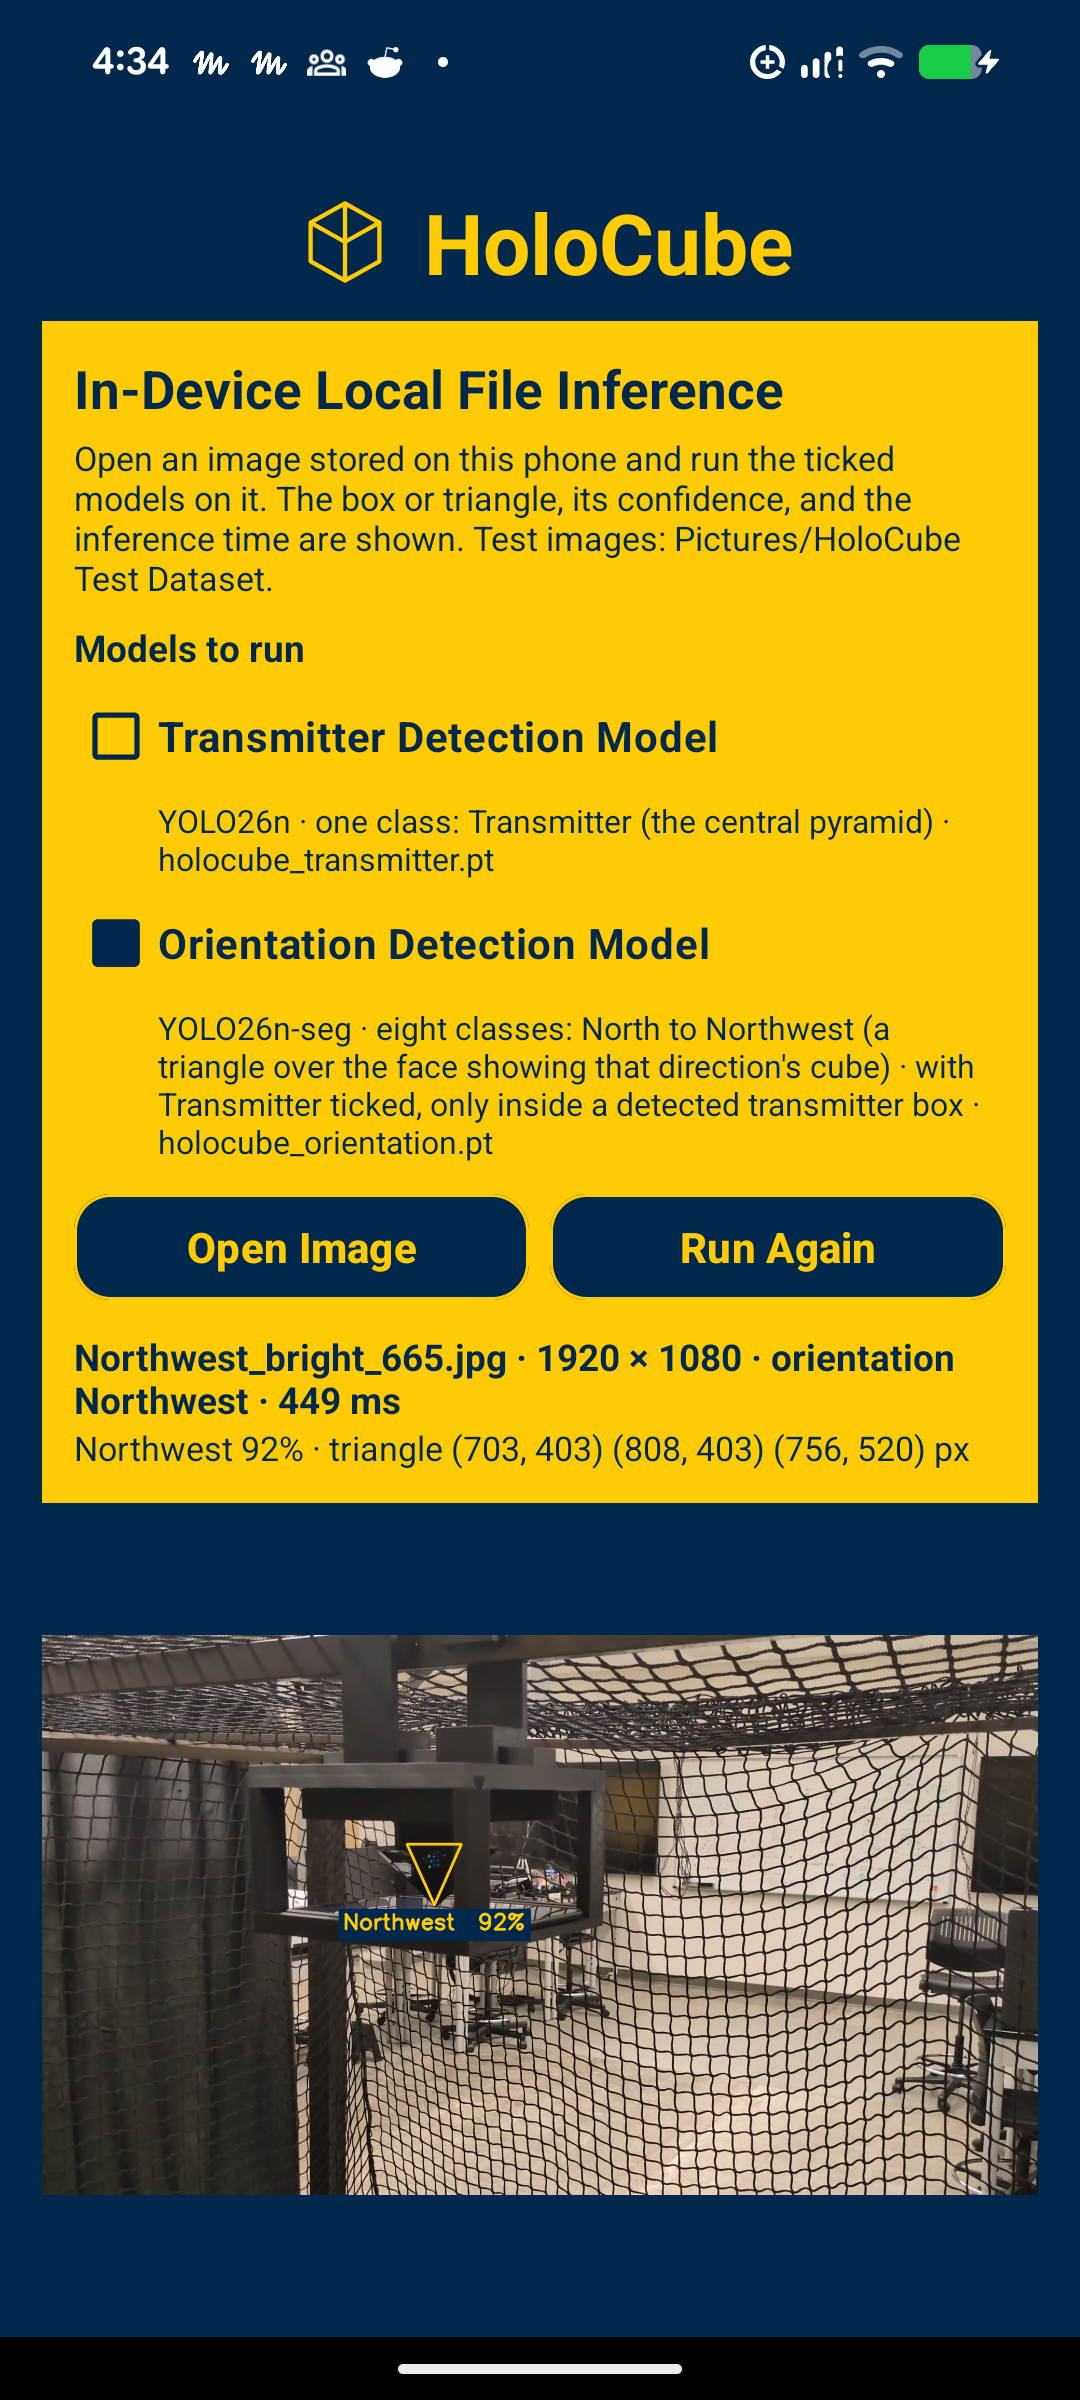
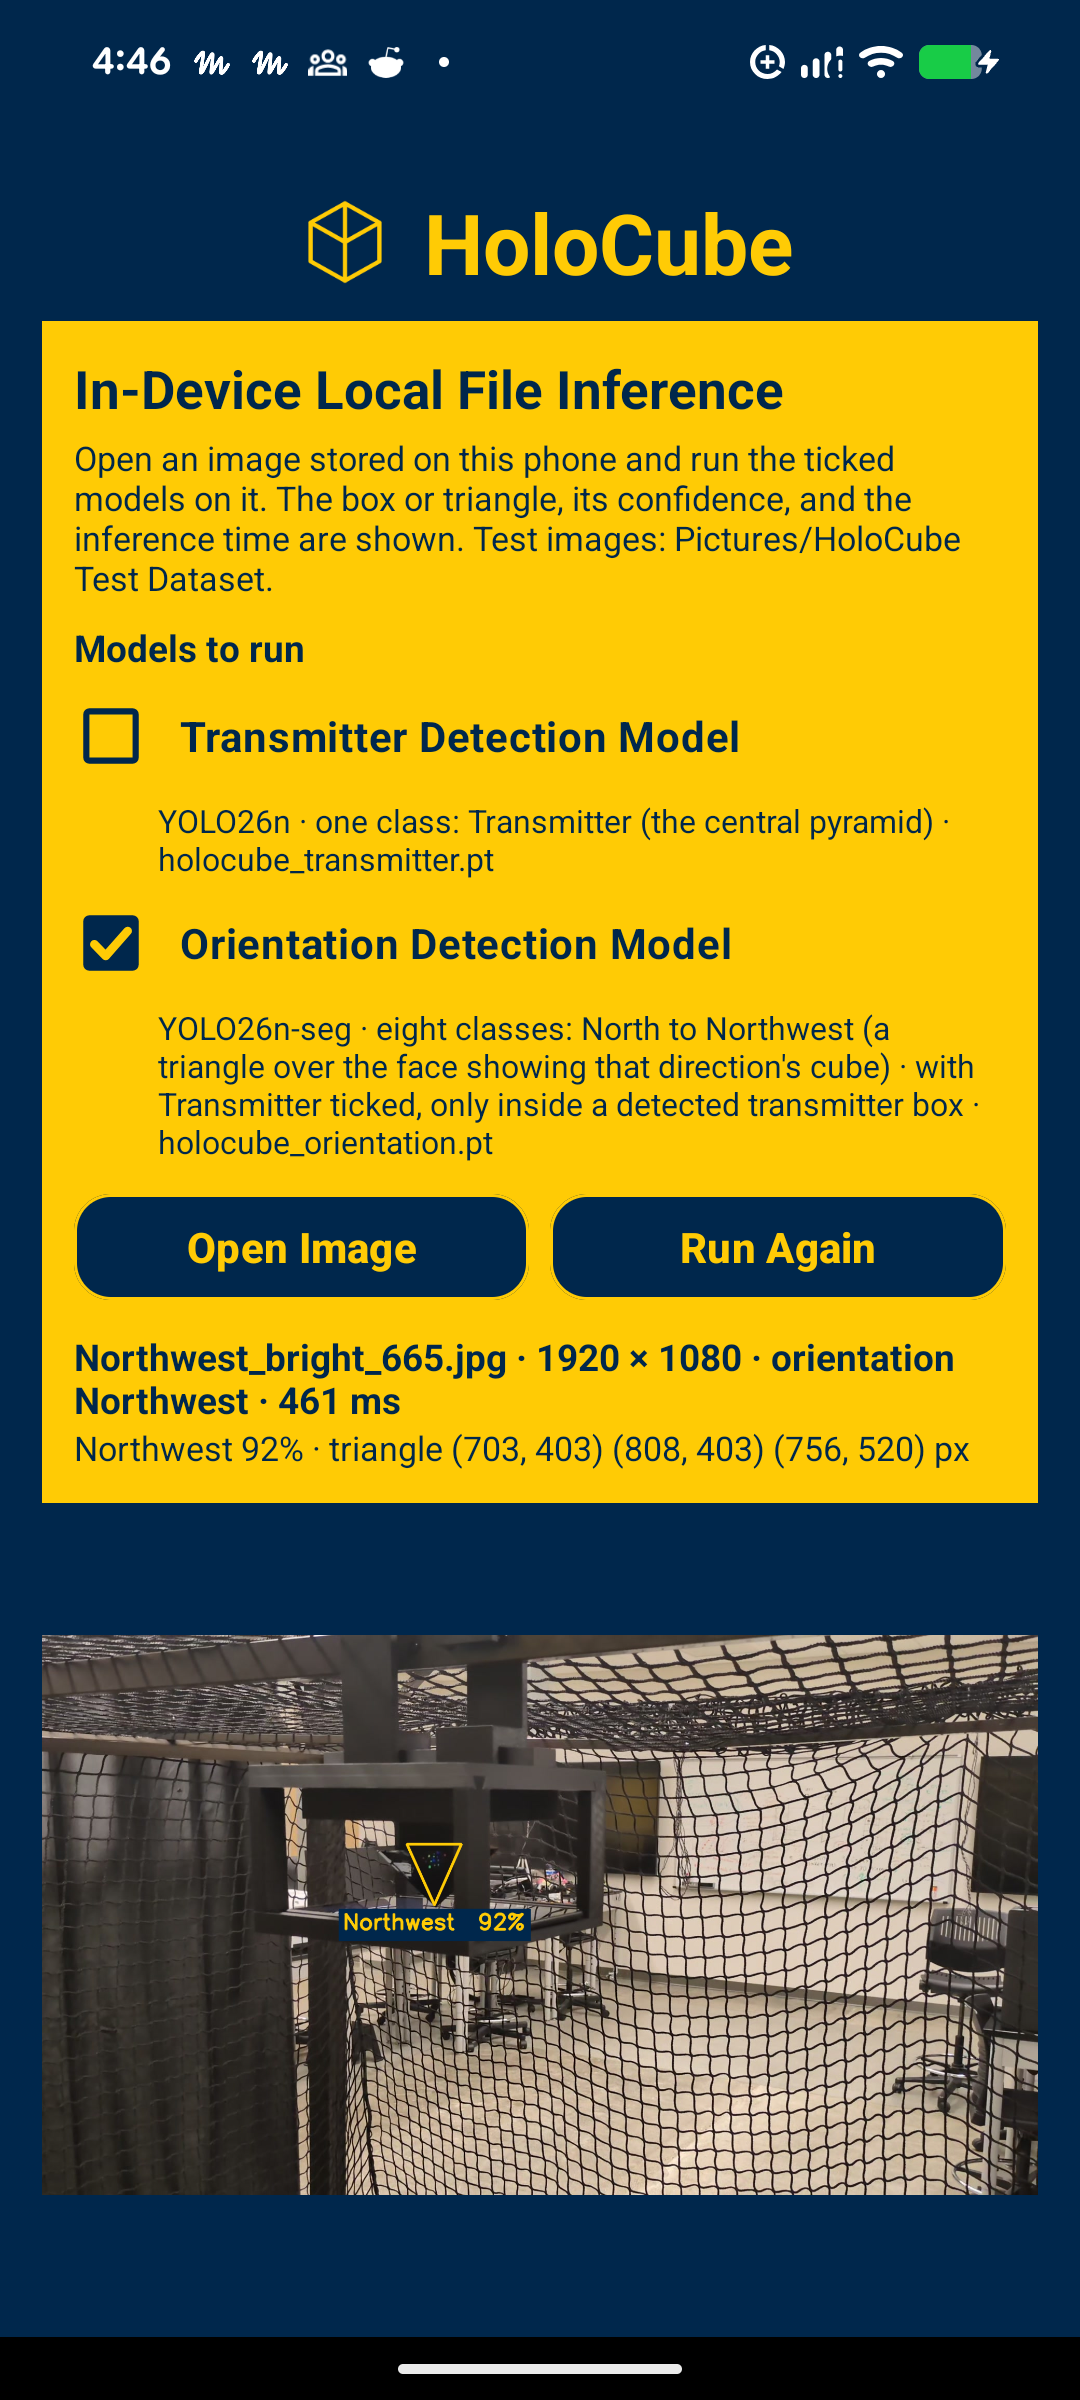
Show ticks in the model checkboxes and make the Guide OK maize (1.4.1)
The Material 3 checkbox drew its tick in the box colour, so a ticked model
looked like a solid square. Draw the checkbox in the app instead: a
Michigan Blue box with a maize tick, and an empty Michigan Blue outline
when unticked (model_checkbox*.xml), on both the Settings rows and the
Local File Inference screen. The theme's checkbox style overrides
android:button through buttonCompat and adds a tint, so the layouts set
app:buttonCompat and clear the tint.

The Guide dialog's OK is maize; Michigan Blue was nearly invisible on the
dark dialog.

26 unit tests pass and lint has 0 errors. On the Pixel 8a screenshots show
the ticks, the unticked outline and the maize OK; screenshots 6, 10, 11 and
12 are retaken.

diff --git a/app/src/main/java/com/developer27/holocube/mobile/MainActivity.kt b/app/src/main/java/com/developer27/holocube/mobile/MainActivity.kt
@@ -373,11 +373,13 @@ class MainActivity : AppCompatActivity() {
     }
 
     private fun showGuideDialog() {
-        AlertDialog.Builder(this)
+        val dialog = AlertDialog.Builder(this)
             .setTitle(R.string.guide_title)
             .setMessage(R.string.guide_text)
             .setPositiveButton(R.string.ok, null)
             .show()
+        // Maize OK: the theme's Michigan Blue is nearly invisible on the dark dialog.
+        dialog.getButton(AlertDialog.BUTTON_POSITIVE)?.setTextColor(getColor(R.color.yellow))
     }
 
     private fun openUrl(url: String) {

diff --git a/VALIDATION.md b/VALIDATION.md
@@ -1,5 +1,28 @@
 # HoloCube Android validation
 
+## 1.4.1: visible ticks and a maize Guide OK — November 15, 2026
+
+- HoloCube Android **1.4.1 (code 9)**: the model checkboxes (Settings → Models to Run and
+  the Local File Inference screen) are drawn by the app as a Michigan Blue box with a maize
+  tick, and an empty Michigan Blue outline when unticked. The Material 3 checkbox drew its
+  tick in the box colour, so a ticked box looked like a solid square; its style also
+  overrode `android:button`, so the layouts set `app:buttonCompat` and clear the tint. The
+  Guide dialog's **OK** is maize instead of Michigan Blue on the dark dialog.
+- Workstation: `./gradlew :app:testDebugUnitTest :app:assembleDebug
+  :app:assembleDebugAndroidTest :app:lintDebug :app:assembleRelease`: BUILD SUCCESSFUL;
+  26 unit tests passed; lint 0 errors, 12 warnings; `aapt` confirms 1.4.1 / code 9. Release
[1 lines of base64/hex data omitted]
+- Pixel 8a: installed over 1.4 with `adb install -r` (installed checksum matches).
+  Screenshots show the maize ticks on both screens, the empty outline for an unticked
+  model, and the maize OK in the Guide. Local File Inference still gives Transmitter 67%
+  and North 92% with both ticked (739 ms) and Northwest 92% with orientation alone
+  (461 ms); both checkboxes were read back as ticked afterwards. Screenshots 6, 10, 11,
+  and 12 were retaken. The same APK replaced `Apps/Install HoloCube.apk` on the phone and
+  the copy in `~/Downloads` on the workstation. Not uploaded to Drive.
+- Not checked: the live camera screen.
+
+---
+
 ## 1.4: Models to Run checkboxes — November 15, 2026
 
 - HoloCube Android **1.4 (code 8)**: a checkbox for each model in **Settings → Models to

diff --git a/README.md b/README.md
@@ -260,14 +260,15 @@ around the central pyramid only.
 
 ![9](Screenshots/9.png)
 
-**10**, **11**, and **12** Version 1.4, captured on November 15, 2026. **10**: the
+**10**, **11**, and **12** Version 1.4.1, captured on November 15, 2026 (screenshot **6**,
+the Guide, was retaken with it too: its **OK** is now maize). **10**: the
 **In-Device Local File Inference** screen with both models ticked after opening
 `North_bright_640.jpg` from `Pictures/HoloCube Test Dataset`: the transmitter box
 (**Transmitter 67%**) with the orientation triangle inside it (**North 92%**), and both
-results in image pixels, 841 ms in total. **11**: the Settings page with the **Models to
-Run** checkboxes. **12**: only the Orientation Detection Model ticked, on
+results in image pixels, 739 ms in total. **11**: the Settings page with the **Models to
+Run** checkboxes, each a Michigan Blue box with a maize tick. **12**: only the Orientation Detection Model ticked, on
 `Northwest_bright_665.jpg`, a frame where the transmitter model finds nothing:
-**Northwest 92%** in 449 ms.
+**Northwest 92%** in 461 ms.
 
 | | | |
 | --- | --- | --- |
